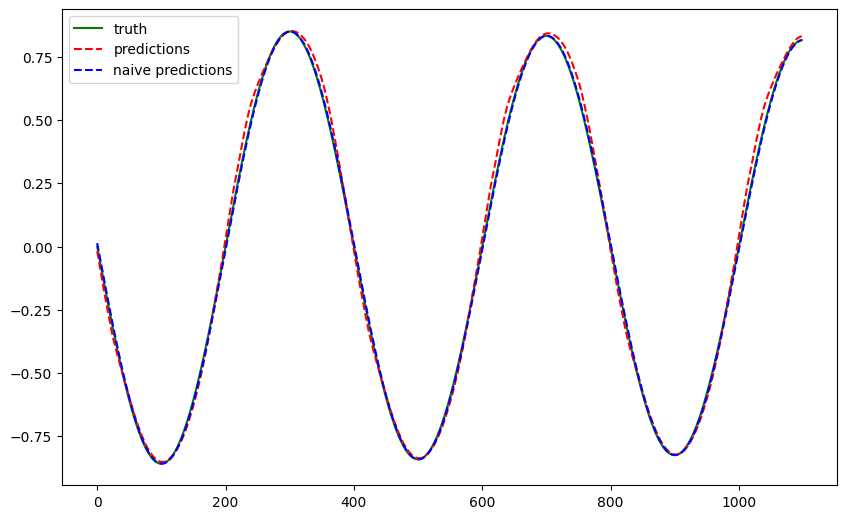
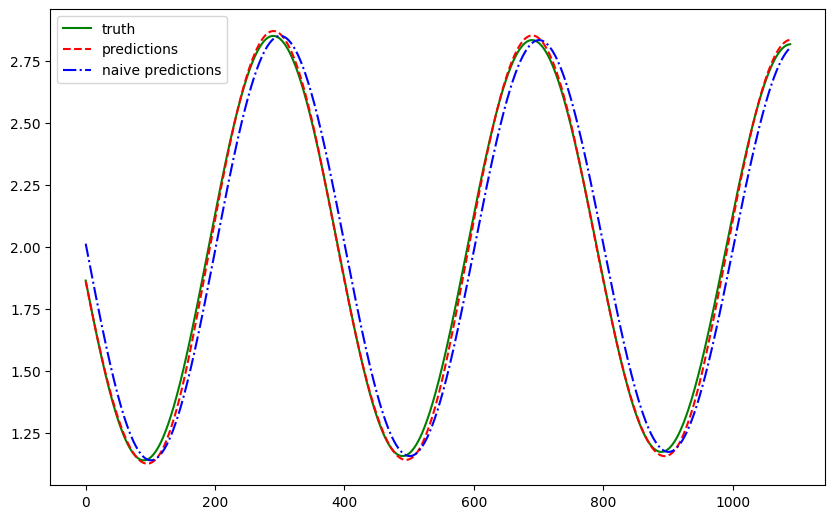
update ffn

diff --git a/dl/notebooks/feedforward_neural_netwroks_timeseries.py b/dl/notebooks/feedforward_neural_netwroks_timeseries.py
@@ -230,6 +230,7 @@ pdm_1_step_sample_steps = np.arange(
 ax.plot(
     pdm_1_step_sample_steps[: len(pdm_1_step_sample_history)],
     pdm_1_step_sample_history,
+    marker=".",
     label="Input",
 )
 
@@ -412,3 +413,8 @@ fig, ax = plt.subplots(figsize=(10, 6.18))
 
 for i in np.arange(0, 1000, 120):
     evaluator_m_step.plot_one_sample(ax=ax, predictions=predictions_m_step, idx=i)
+# -
+
+evaluator_m_step.metrics(predictions_m_step, pdm_m_step.predict_dataloader())
+
+evaluator_m_step.metrics(lobs_m_step_predictions, pdm_m_step.predict_dataloader())

diff --git a/dl/time-series-deep-learning/timeseries.feedforward.md b/dl/time-series-deep-learning/timeseries.feedforward.md
@@ -115,13 +115,23 @@ Feedforward neural networks are simple but powerful models for time series forec
 
 ## Results
 
+We take 100 time steps as the input history and forecast 1 time step into the future, but with a gap of 10 time steps.
+
+![Task](../assets/timeseries.feedforward/forecast_task_gap.png)
+
+!!! info "Why the Gap"
+
+    Since the differences between each steps are tiny, forecasting immediate next step is quite easy. We add a gap to make the forecasting problem a bit harder.
+
+
 ??? info "Training"
 
     The details for model training can be found in this [:notebook: notebook](../../notebooks/feedforward_neural_netwroks_timeseries). We will skip the details but show the loss curve here.
 
     ![Training](assets/timeseries.feedforward/feedforward_neural_net_training_univariate_loss.png)
 
-We trained the model using a history length of 100 and plotted the forecasts for a test dataset that was held out from training. The forecasts are plotted in red and the ground truth is plotted in blue.
+
+We plotted the forecasts for a test dataset that was held out from training. The forecasts are plotted in red and the ground truth is plotted in green. For a sense of goodness, we also added the naive forecast (forecasting the last observed value) in blue.
 
 ![Results](assets/timeseries.feedforward/feedforward_neural_net_results.png)
 
@@ -134,3 +144,21 @@ The feedforward neural network learned the damped sine wave pattern of the pendu
 | Symmetric Mean Absolute Percentage Error | 0.1115 | 0.0630     |
 
 Since the differences between each time step are small, the naive forecast performs quite well.
+
+
+## Multi-horizon Forecasting
+
+We perform a similar experiment but forecast 3 time steps into the future. We plot out some samples. In the plot, the orange shaded regions are the predictions. From these samples, we observe that the forecasts make sense.
+
+![multihorizon sample](../assets/timeseries.feedforward/feedforward_neural_net_multihorizon_sample.png)
+
+To observe the quality of the whole time range, we plot out the first forecast step and the corresponding ground truth. The naive forecast plotted in blue has an obvious shift, while the feedforward neural network plotted in red is much closer to the ground truth.
+
+![multihorizon results](../assets/timeseries.feedforward/feedforward_neural_net_multihorizon_results.png)
+
+
+| Metric | FFN | Naive |
+| --- | --- | --- |
+| Mean Absolute Error | 0.024640 | 0.109485 |
+| Mean Squared Error | 0.001116 | 0.014723 |
+| Symmetric Mean Absolute Percentage Error | 0.015637 | 0.059591 |
